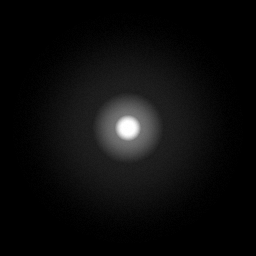
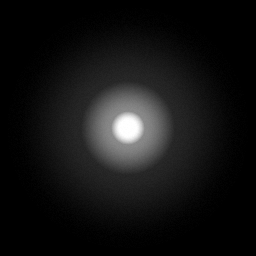
Adjust flashlight balance
Adjusted the flashlight balance so that the spot lights range is increased while the other types cast shorter. Made the color slightly warmer.

Changed region(s): [[0.3125, 0.3125, 0.6875, 0.6875]]

diff --git a/tools/generate_utlf_light_profiles.py b/tools/generate_utlf_light_profiles.py
@@ -23,9 +23,9 @@ PROFILES = {
     "spot_throw": {
         "seed": 0x5448524F,
         "components": (
-            (1.00, 0.045, 0.155),
-            (0.46, 0.080, 0.380),
-            (0.12, 0.240, 0.900),
+            (1.00, 0.060, 0.210),
+            (0.54, 0.120, 0.500),
+            (0.16, 0.280, 0.940),
         ),
         "dither": 3.0,
     },

diff --git a/README.md b/README.md
@@ -33,12 +33,12 @@ Current modular flashlight item profiles:
 
 | Section | Light | Cost | Weight | Range | Cone | Texture | Color |
 | --- | --- | ---: | ---: | ---: | ---: | --- | --- |
-| `utlf_tactical_light_foxtrot1` | FOXTROT1X | `14000` | `0.068` | `38` | `38` | `utlf\lights\spot_throw` | `0.98,0.97,0.94,0.55` |
-| `utlf_tactical_light_olight` | BALDR Pro | `23000` | `0.129` | `43` | `58` | `utlf\lights\spot_flood` | `1.00,0.96,0.86,0.55` |
-| `utlf_tactical_light_streamlight` | TLR-1 HL | `24000` | `0.123` | `51` | `42` | `utlf\lights\spot_throw` | `0.97,0.96,0.94,0.55` |
-| `utlf_tactical_light_x300` | X300U-B | `30000` | `0.116` | `38` | `60` | `utlf\lights\spot_flood` | `1.00,0.98,0.95,0.55` |
-| `utlf_tactical_light_m300c` | M300C | `19000` | `0.116` | `32` | `50` | `utlf\lights\spot_balanced` | `1.00,0.95,0.86,0.55` |
-| `utlf_tactical_light` | M600DF | `36000` | `0.156` | `45` | `62` | `utlf\lights\spot_flood` | `1.00,0.99,0.95,0.55` |
+| `utlf_tactical_light_foxtrot1` | FOXTROT1X | `14000` | `0.068` | `52` | `38` | `utlf\lights\spot_throw` | `1.00,0.95,0.86,0.55` |
+| `utlf_tactical_light_olight` | BALDR Pro | `23000` | `0.129` | `39` | `58` | `utlf\lights\spot_flood` | `1.00,0.93,0.78,0.55` |
+| `utlf_tactical_light_streamlight` | TLR-1 HL | `24000` | `0.123` | `56` | `42` | `utlf\lights\spot_throw` | `1.00,0.94,0.84,0.55` |
+| `utlf_tactical_light_x300` | X300U-B | `30000` | `0.116` | `38` | `60` | `utlf\lights\spot_flood` | `1.00,0.95,0.88,0.55` |
+| `utlf_tactical_light_m300c` | M300C | `19000` | `0.116` | `48` | `50` | `utlf\lights\spot_balanced` | `1.00,0.93,0.80,0.55` |
+| `utlf_tactical_light` | M600DF | `36000` | `0.156` | `40` | `62` | `utlf\lights\spot_flood` | `1.00,0.96,0.88,0.55` |
 
 For modular weapon profiles, drag one of these items onto a supported weapon in the inventory. UTLF stores the attached item on that specific weapon, adds an inventory icon layer, creates a visible scripted attachment model when the weapon is drawn, and returns the item when detached through the inventory context menu.
 
